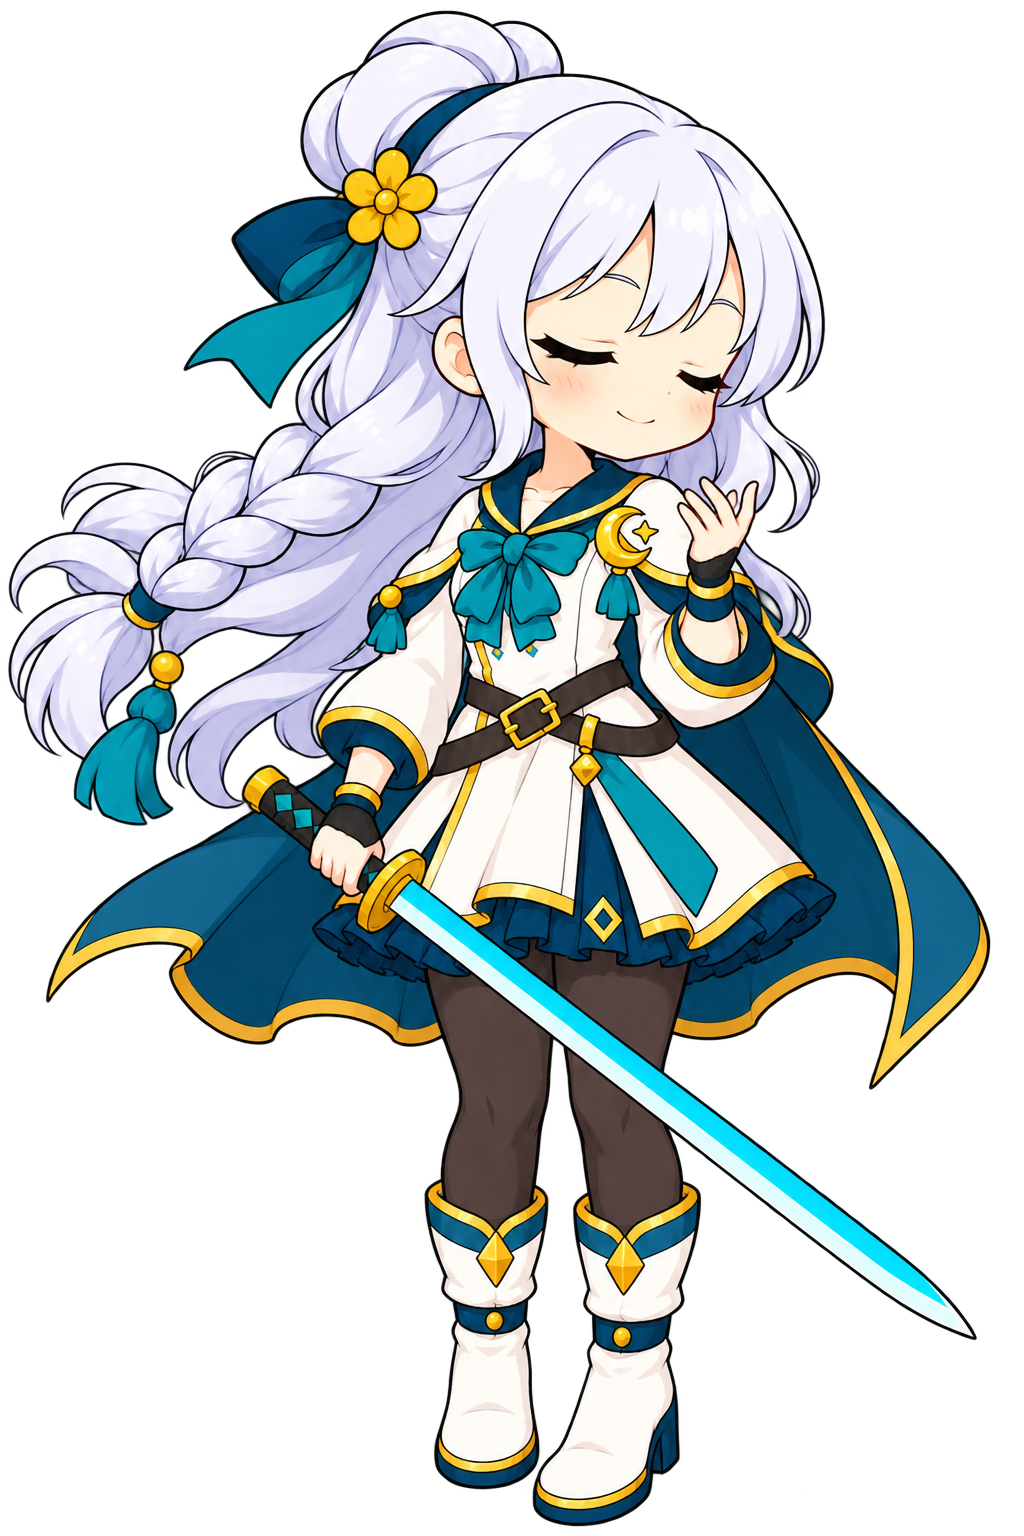
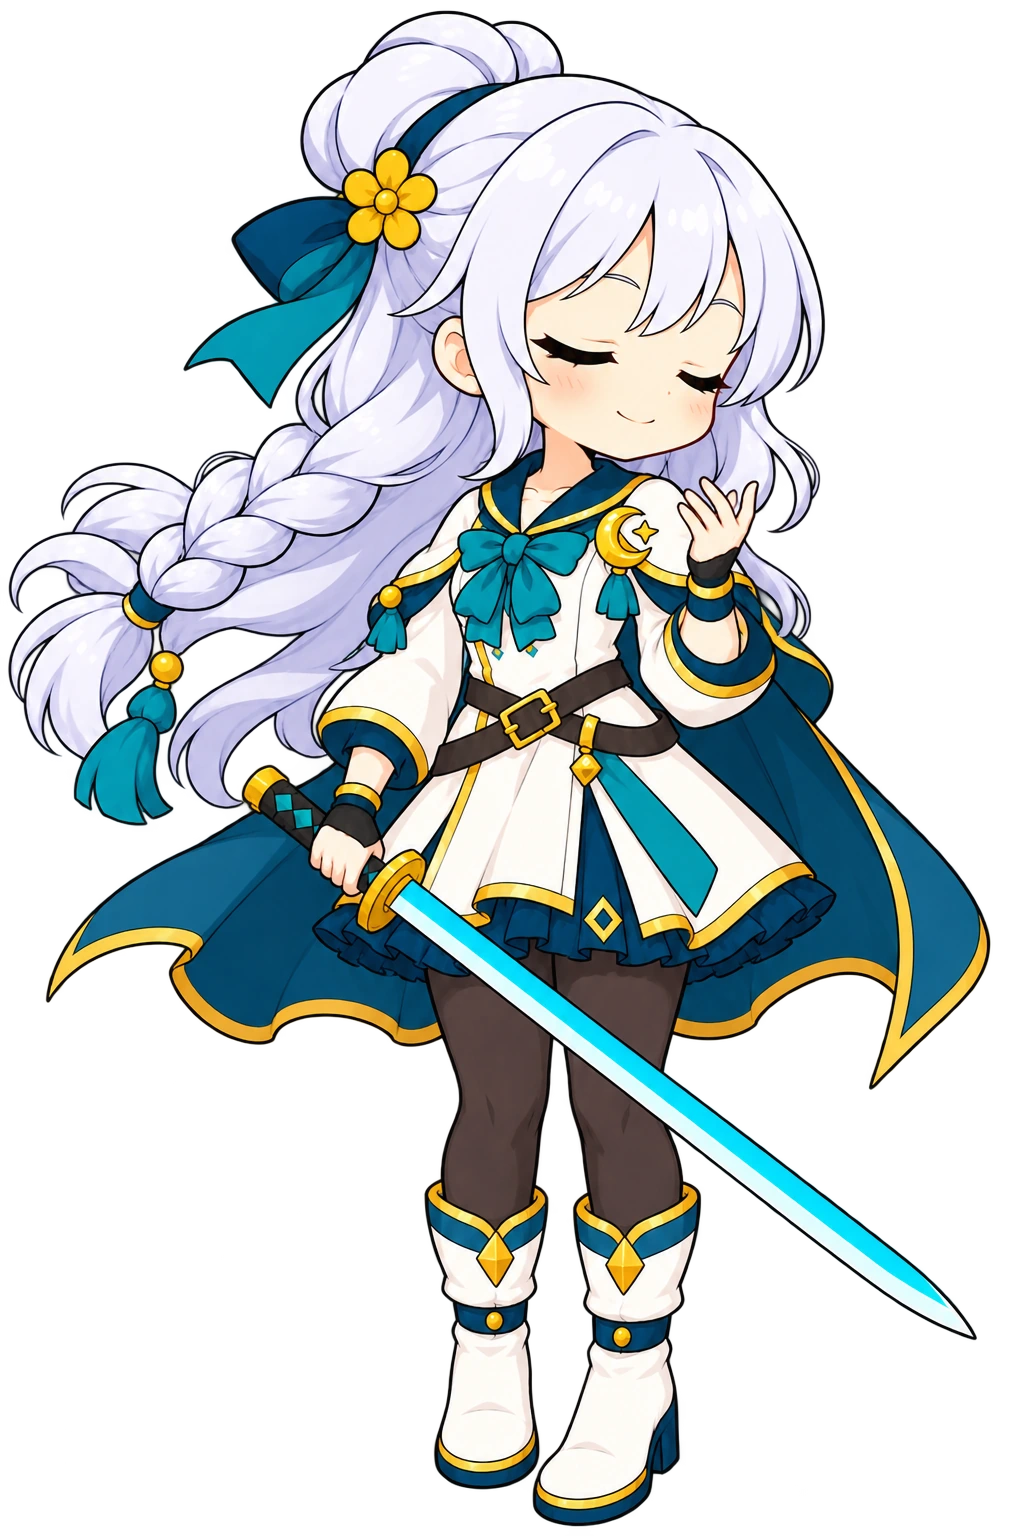
Optimize spell pose delivery while preserving full alpha

diff --git a/README.md b/README.md
@@ -57,7 +57,7 @@ E 或 Enter 结束回合，M 查看地图，D 查看牌组，H 查看指南，Es
 
 角色采用可爱的二维动漫女生风格：圆润脸型、明亮眼睛、腮红与各具性格的表情。
 主角和全部 12 种敌人分别绘制，发型、服装轮廓、武器、姿态与配色各不相同。
-每张角色图均由内置 imagegen 生成，保留真实透明通道，并无损编码为 WebP。
+主角待机与敌人角色图均由内置 imagegen 生成，保留真实透明通道，并无损编码为 WebP。新增施法动作姿势保留完整分辨率，以质量 92、透明度质量 100 的 WebP 加快加载。
 莉雅与前六种普通敌人以镜月魔女、无名处刑者为直接图片参考，统一为更圆润的大头短身比例、明亮大眼睛、粗轮廓与简洁赛璐璐阴影。
 
 - public/assets/characters/hero-cute-v2.webp：银发青眼的月咏·莉雅、青色蝴蝶结与月刃。

diff --git a/HERO-MOTION.md b/HERO-MOTION.md
@@ -17,7 +17,7 @@
 
 ## 施法姿势
 
-使用内置 imagegen，以当前莉雅立绘作为严格角色与画风参考。选定 PNG 为 1024 × 1536、真实 RGBA，保留原生尺寸和透明通道并无损编码为 [hero-channel.webp](public/assets/characters/hero-channel.webp)，没有裁切、缩放或手工改画。
+使用内置 imagegen，以当前莉雅立绘作为严格角色与画风参考。选定 PNG 为 1024 × 1536、真实 RGBA，保留原生尺寸，以 WebP 质量 92、透明度质量 100 编码为 [hero-channel.webp](public/assets/characters/hero-channel.webp)，没有裁切、缩放或手工改画。
 
 原始图片：`C:/Users/erkki/.codex/visualizations/2026/09/05/01a07002-3ca7-7533-81cb-b0885582fb8d/hero-motion/channel.png`
 
